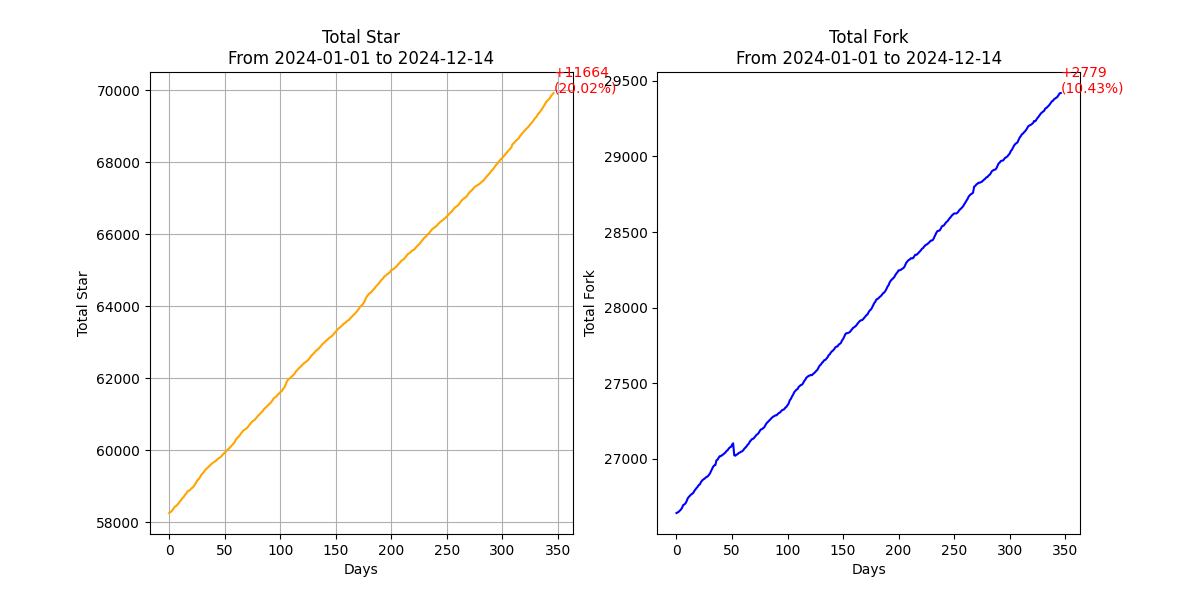
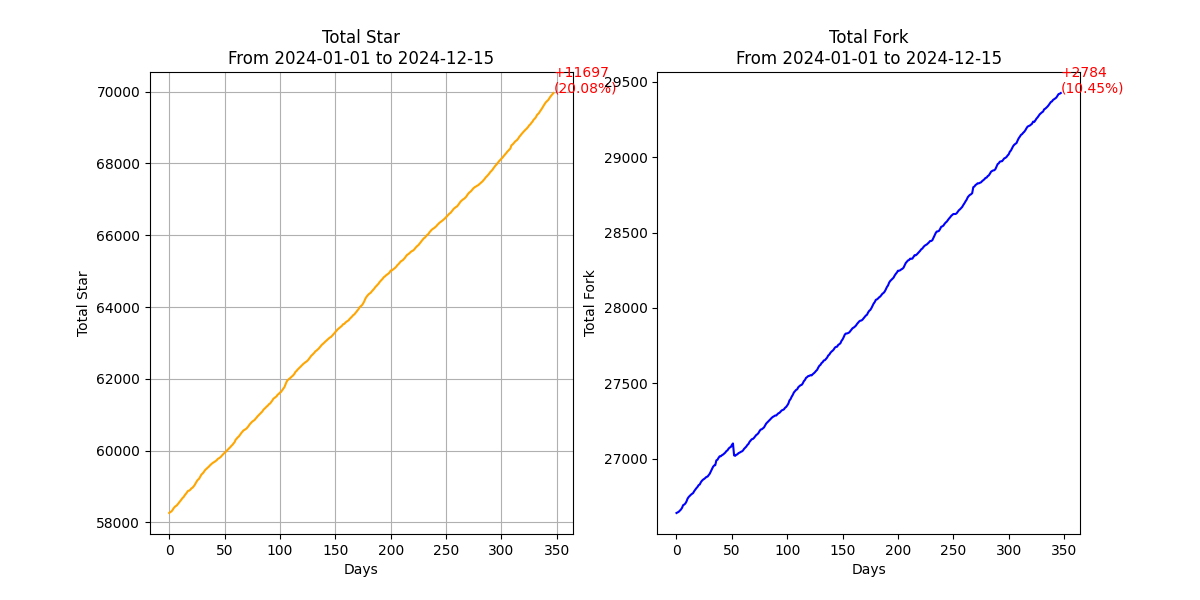
Update Espressif Systems Github Star Rank - 2024-12-15

diff --git a/rank_history/esp_rank_2024-12-14.md b/rank_history/esp_rank_2024-12-14.md
@@ -1,6 +1,6 @@
-# Espressif Systems Github Star Rank 2024-12-15
+# Espressif Systems Github Star Rank 2024-12-14
 
-## Total Star 🌟: 69989, Total Fork 🌳: 29432
+## Total Star 🌟: 69960, Total Fork 🌳: 29425
 
 [![Update Espressif Systems Github Star Rank](https://github.com/leeebo/espressif_star_counter/actions/workflows/update_rank.yml/badge.svg)](https://github.com/leeebo/espressif_star_counter/actions/workflows/update_rank.yml)
 
@@ -8,19 +8,19 @@
 
 | Repository | Stars | Forks | Description |
 |------------|-------|-------|-------------|
-| [esp-idf](https://github.com/espressif/esp-idf) | 13986 | 7349 | Espressif IoT Development Framework. Official development framework for Espressif SoCs. |
-| [arduino-esp32](https://github.com/espressif/arduino-esp32) | 13849 | 7453 | Arduino core for the ESP32 |
-| [esptool](https://github.com/espressif/esptool) | 5635 | 1388 | Espressif SoC serial bootloader utility |
-| [ESP8266_RTOS_SDK](https://github.com/espressif/ESP8266_RTOS_SDK) | 3358 | 1565 | Latest ESP8266 SDK based on FreeRTOS, esp-idf style. |
+| [esp-idf](https://github.com/espressif/esp-idf) | 13983 | 7345 | Espressif IoT Development Framework. Official development framework for Espressif SoCs. |
+| [arduino-esp32](https://github.com/espressif/arduino-esp32) | 13841 | 7452 | Arduino core for the ESP32 |
+| [esptool](https://github.com/espressif/esptool) | 5633 | 1388 | Espressif SoC serial bootloader utility |
+| [ESP8266_RTOS_SDK](https://github.com/espressif/ESP8266_RTOS_SDK) | 3357 | 1565 | Latest ESP8266 SDK based on FreeRTOS, esp-idf style. |
 | [esp-iot-solution](https://github.com/espressif/esp-iot-solution) | 2011 | 792 | Espressif IoT Library. IoT Device Drivers, Documentations and Solutions. |
-| [esp32-camera](https://github.com/espressif/esp32-camera) | 1966 | 649 | None |
-| [esp-who](https://github.com/espressif/esp-who) | 1722 | 469 | Face detection and recognition framework |
+| [esp32-camera](https://github.com/espressif/esp32-camera) | 1965 | 649 | None |
+| [esp-who](https://github.com/espressif/esp-who) | 1721 | 469 | Face detection and recognition framework |
 | [esp-adf](https://github.com/espressif/esp-adf) | 1578 | 692 | Espressif Audio Development Framework |
-| [vscode-esp-idf-extension](https://github.com/espressif/vscode-esp-idf-extension) | 1095 | 309 | Visual Studio Code extension for ESP-IDF projects |
+| [vscode-esp-idf-extension](https://github.com/espressif/vscode-esp-idf-extension) | 1093 | 308 | Visual Studio Code extension for ESP-IDF projects |
 | [ESP8266_NONOS_SDK](https://github.com/espressif/ESP8266_NONOS_SDK) | 932 | 536 | ESP8266 nonOS SDK |
-| [esp-at](https://github.com/espressif/esp-at) | 924 | 838 | AT application for ESP32/ESP32-C2/ESP32-C3/ESP32-C6/ESP8266 |
+| [esp-at](https://github.com/espressif/esp-at) | 922 | 838 | AT application for ESP32/ESP32-C2/ESP32-C3/ESP32-C6/ESP8266 |
 | [esp-drone](https://github.com/espressif/esp-drone) | 849 | 245 | Mini Drone/Quadcopter Firmware for ESP32 and ESP32-S Series SoCs. |
-| [esp-box](https://github.com/espressif/esp-box) | 831 | 191 | The ESP-BOX is a new generation AIoT development platform released by Espressif Systems. |
+| [esp-box](https://github.com/espressif/esp-box) | 830 | 191 | The ESP-BOX is a new generation AIoT development platform released by Espressif Systems. |
 | [kicad-libraries](https://github.com/espressif/kicad-libraries) | 788 | 110 | KiCad libraries for Espressif SoCs, modules, and DevKits. |
 | [esp-mdf](https://github.com/espressif/esp-mdf) | 782 | 253 | Espressif Mesh Development Framework, limited maintain, recommend to use https://github.com/espressif/esp-mesh-lite |
 | [ESP8266_MP3_DECODER](https://github.com/espressif/ESP8266_MP3_DECODER) | 746 | 190 | A demo that should be run with ESP8266 Non-OS SDK |
@@ -29,13 +29,13 @@
 | [esp-matter](https://github.com/espressif/esp-matter) | 719 | 165 | Espressif's SDK for Matter |
 | [esp-apple-homekit-adk](https://github.com/espressif/esp-apple-homekit-adk) | 624 | 64 | This is a port for Apple's Open Source HomeKit ADK |
 | [esp-mqtt](https://github.com/espressif/esp-mqtt) | 618 | 258 | ESP32 mqtt component |
-| [esp-sr](https://github.com/espressif/esp-sr) | 605 | 107 | Speech recognition |
-| [esp-skainet](https://github.com/espressif/esp-skainet) | 595 | 135 | Espressif intelligent voice assistant |
+| [esp-sr](https://github.com/espressif/esp-sr) | 604 | 107 | Speech recognition |
+| [esp-skainet](https://github.com/espressif/esp-skainet) | 594 | 135 | Espressif intelligent voice assistant |
 | [esp-dl](https://github.com/espressif/esp-dl) | 586 | 123 | Espressif deep-learning library for AIoT applications |
 | [esp-homekit-sdk](https://github.com/espressif/esp-homekit-sdk) | 573 | 109 | None |
 | [esp-now](https://github.com/espressif/esp-now) | 555 | 97 | A connectionless Wi-Fi communication protocol |
 | [esp32-nesemu](https://github.com/espressif/esp32-nesemu) | 551 | 173 | Proof-of-concept NES emulator for the ESP32 |
-| [esp-dsp](https://github.com/espressif/esp-dsp) | 492 | 92 | DSP library for ESP-IDF |
+| [esp-dsp](https://github.com/espressif/esp-dsp) | 491 | 92 | DSP library for ESP-IDF |
 | [esp-rainmaker](https://github.com/espressif/esp-rainmaker) | 471 | 156 | ESP RainMaker Agent for firmware development |
 | [ESP8266_AT](https://github.com/espressif/ESP8266_AT) | 471 | 227 | This project is not maintained, please use https://github.com/espressif/esp-at. |
 | [rust-esp32-example](https://github.com/espressif/rust-esp32-example) | 449 | 36 | Example of Rust integration into an ESP-IDF project, for ESP32 series of chips |
@@ -47,16 +47,16 @@
 | [esp-idf-template](https://github.com/espressif/esp-idf-template) | 336 | 201 | Template application for https://github.com/espressif/esp-idf |
 | [idf-eclipse-plugin](https://github.com/espressif/idf-eclipse-plugin) | 320 | 121 | Espressif-IDE (ESP-IDF Eclipse Plugin) for ESP-IDF CMake based projects 5.x and above |
 | [esp-usb-bridge](https://github.com/espressif/esp-usb-bridge) | 304 | 34 | USB to UART&JTAG bridge, implemented on ESP32-S2 or ESP32-S3 |
-| [esptool-js](https://github.com/espressif/esptool-js) | 296 | 111 | Javascript implementation of flasher tool for Espressif chips, running in web browser using WebSerial. |
 | [esp-va-sdk](https://github.com/espressif/esp-va-sdk) | 295 | 83 | Espressif's Voice Assistant SDK: Alexa, Google Voice Assistant, Google DialogFlow |
+| [esptool-js](https://github.com/espressif/esptool-js) | 295 | 110 | Javascript implementation of flasher tool for Espressif chips, running in web browser using WebSerial. |
 | [esp-aws-iot](https://github.com/espressif/esp-aws-iot) | 274 | 166 | AWS IoT SDK for ESP32 based chipsets |
 | [esp-bsp](https://github.com/espressif/esp-bsp) | 212 | 109 | Board support components for Espressif development boards |
 | [esp-idf-provisioning-android](https://github.com/espressif/esp-idf-provisioning-android) | 205 | 138 | Android Provisioning application for ESP-IDF Unified provisioning |
 | [esp32-doom](https://github.com/espressif/esp32-doom) | 201 | 39 | A proof-of-concept port of PrBoom to the ESP32. Needs psram hardware. |
 | [esp-protocols](https://github.com/espressif/esp-protocols) | 200 | 135 | Collection of ESP-IDF components related to networking protocols |
 | [ESP31_RTOS_SDK](https://github.com/espressif/ESP31_RTOS_SDK) | 188 | 58 | ESP31B SDK based on FreeRTOS. For ESP32 please see http://github.com/espressif/esp-idf |
-| [esp-zigbee-sdk](https://github.com/espressif/esp-zigbee-sdk) | 180 | 33 | Espressif Zigbee SDK |
 | [esp-jumpstart](https://github.com/espressif/esp-jumpstart) | 179 | 58 | Jumpstart from concept to production |
+| [esp-zigbee-sdk](https://github.com/espressif/esp-zigbee-sdk) | 179 | 33 | Espressif Zigbee SDK |
 | [esp-azure](https://github.com/espressif/esp-azure) | 178 | 93 | SDK to connect ESP8266 and ESP32 to Microsoft Azure IoT services |
 | [esp-iot-bridge](https://github.com/espressif/esp-iot-bridge) | 169 | 54 | A smart bridge to make both ESP and the other MCU or smart device can access the Internet. |
 | [esp32-wifi-lib](https://github.com/espressif/esp32-wifi-lib) | 167 | 71 | ESP32 WiFi stack precompiled libraries |
@@ -121,18 +121,18 @@
 | [esp-h264-component](https://github.com/espressif/esp-h264-component) | 19 | 0 | H264 encoder/decoder of espressif |
 | [idf-clion-plugin](https://github.com/espressif/idf-clion-plugin) | 19 | 5 | CLion plugin for ESP-IDF |
 | [esp-baidu-iot](https://github.com/espressif/esp-baidu-iot) | 18 | 10 | Baidu 天工物联网平台 support for ESP32 & ESP8266. |
-| [esp-hal-3rdparty](https://github.com/espressif/esp-hal-3rdparty) | 18 | 19 | None |
 | [esp-aws-expresslink-eval](https://github.com/espressif/esp-aws-expresslink-eval) | 17 | 18 | Espressif AWS IoT ExpressLink Evaluation and Firmware Repository |
+| [esp-hal-3rdparty](https://github.com/espressif/esp-hal-3rdparty) | 17 | 19 | None |
 | [esp32c3-bt-lib](https://github.com/espressif/esp32c3-bt-lib) | 17 | 7 | ESP32-C3/S3 Bluetooth stack (below HCI layer) precompiled libraries |
 | [esp-afr-sdk](https://github.com/espressif/esp-afr-sdk) | 16 | 17 | Espressif Base SDK for (Amazon) FreeRTOS |
 | [esp32-quake](https://github.com/espressif/esp32-quake) | 16 | 0 | Quake for the ESP32-P4 evaluation board |
 | [idf-build-apps](https://github.com/espressif/idf-build-apps) | 16 | 6 | Tool to build multiple IDF applications in CI |
 | [idf-web-ide](https://github.com/espressif/idf-web-ide) | 16 | 4 | cloud/ desktop IDE for ESP-IDF based on Eclipse Theia |
 | [qrcode-demo](https://github.com/espressif/qrcode-demo) | 16 | 4 | QR code recognition example |
-| [esp-nuttx-bootloader](https://github.com/espressif/esp-nuttx-bootloader) | 15 | 12 | This repository provides 2nd stage bootloader and partition table binaries for NuttX users of ESP chips. |
 | [esp-rom-elfs](https://github.com/espressif/esp-rom-elfs) | 15 | 3 | Espressif ROM binaries |
 | [kconfig-frontends](https://github.com/espressif/kconfig-frontends) | 15 | 9 | Fork of kconfig-frontends project with some modifications for use with ESP-IDF |
 | [esp-hal-components](https://github.com/espressif/esp-hal-components) | 14 | 6 | HAL (hardware abstraction layer) components for Espressif chips |
+| [esp-nuttx-bootloader](https://github.com/espressif/esp-nuttx-bootloader) | 14 | 12 | This repository provides 2nd stage bootloader and partition table binaries for NuttX users of ESP chips. |
 | [github-actions](https://github.com/espressif/github-actions) | 14 | 20 | Github Actions developed/used by Espressif |
 | [developer-portal](https://github.com/espressif/developer-portal) | 13 | 26 | Developer Portal |
 | [esp-toolchain-docs](https://github.com/espressif/esp-toolchain-docs) | 13 | 5 | Repository with documentation related to toolchains and debuggers maintained by Espressif |
@@ -147,11 +147,11 @@
 | [gh-esp-test-template](https://github.com/espressif/gh-esp-test-template) | 11 | 11 | ESP Project Testing Template (CI Project Template/Demo) |
 | [idf-python-wheels](https://github.com/espressif/idf-python-wheels) | 11 | 9 | Build Python Wheels for Offline and Online installation of ESP-IDF. Online installation is using Espressif's PyPI |
 | [conventional-precommit-linter](https://github.com/espressif/conventional-precommit-linter) | 10 | 0 | Pre-commit hook script for linting conventional commit style |
-| [esp-idf-size](https://github.com/espressif/esp-idf-size) | 10 | 6 | None |
 | [esp8266-dual-cloud](https://github.com/espressif/esp8266-dual-cloud) | 10 | 12 | esp8266 dual cloud support demo, now support alink + joylink. |
 | [xtensa-overlays](https://github.com/espressif/xtensa-overlays) | 10 | 8 | Configuration overlays of Xtensa cores used by Espressif. These overlays are applied when building GCC, Binutils, GDB, Newlib. |
 | [check-copyright](https://github.com/espressif/check-copyright) | 9 | 6 | Pre-commit/gitlab-ci script for checking and adding license SPDX headers |
 | [clang-tidy-runner](https://github.com/espressif/clang-tidy-runner) | 9 | 6 | None |
+| [esp-idf-size](https://github.com/espressif/esp-idf-size) | 9 | 6 | None |
 | [esp-welink](https://github.com/espressif/esp-welink) | 9 | 5 | Tencent 微瓴 support for ESP32 & ESP8266. |
 | [idf-im-cli](https://github.com/espressif/idf-im-cli) | 9 | 0 | ESP-IDF Installation Manager - CLI |
 | [iwidc](https://github.com/espressif/iwidc) | 9 | 1 | ESP IDF Web IDE Desktop Companion |
